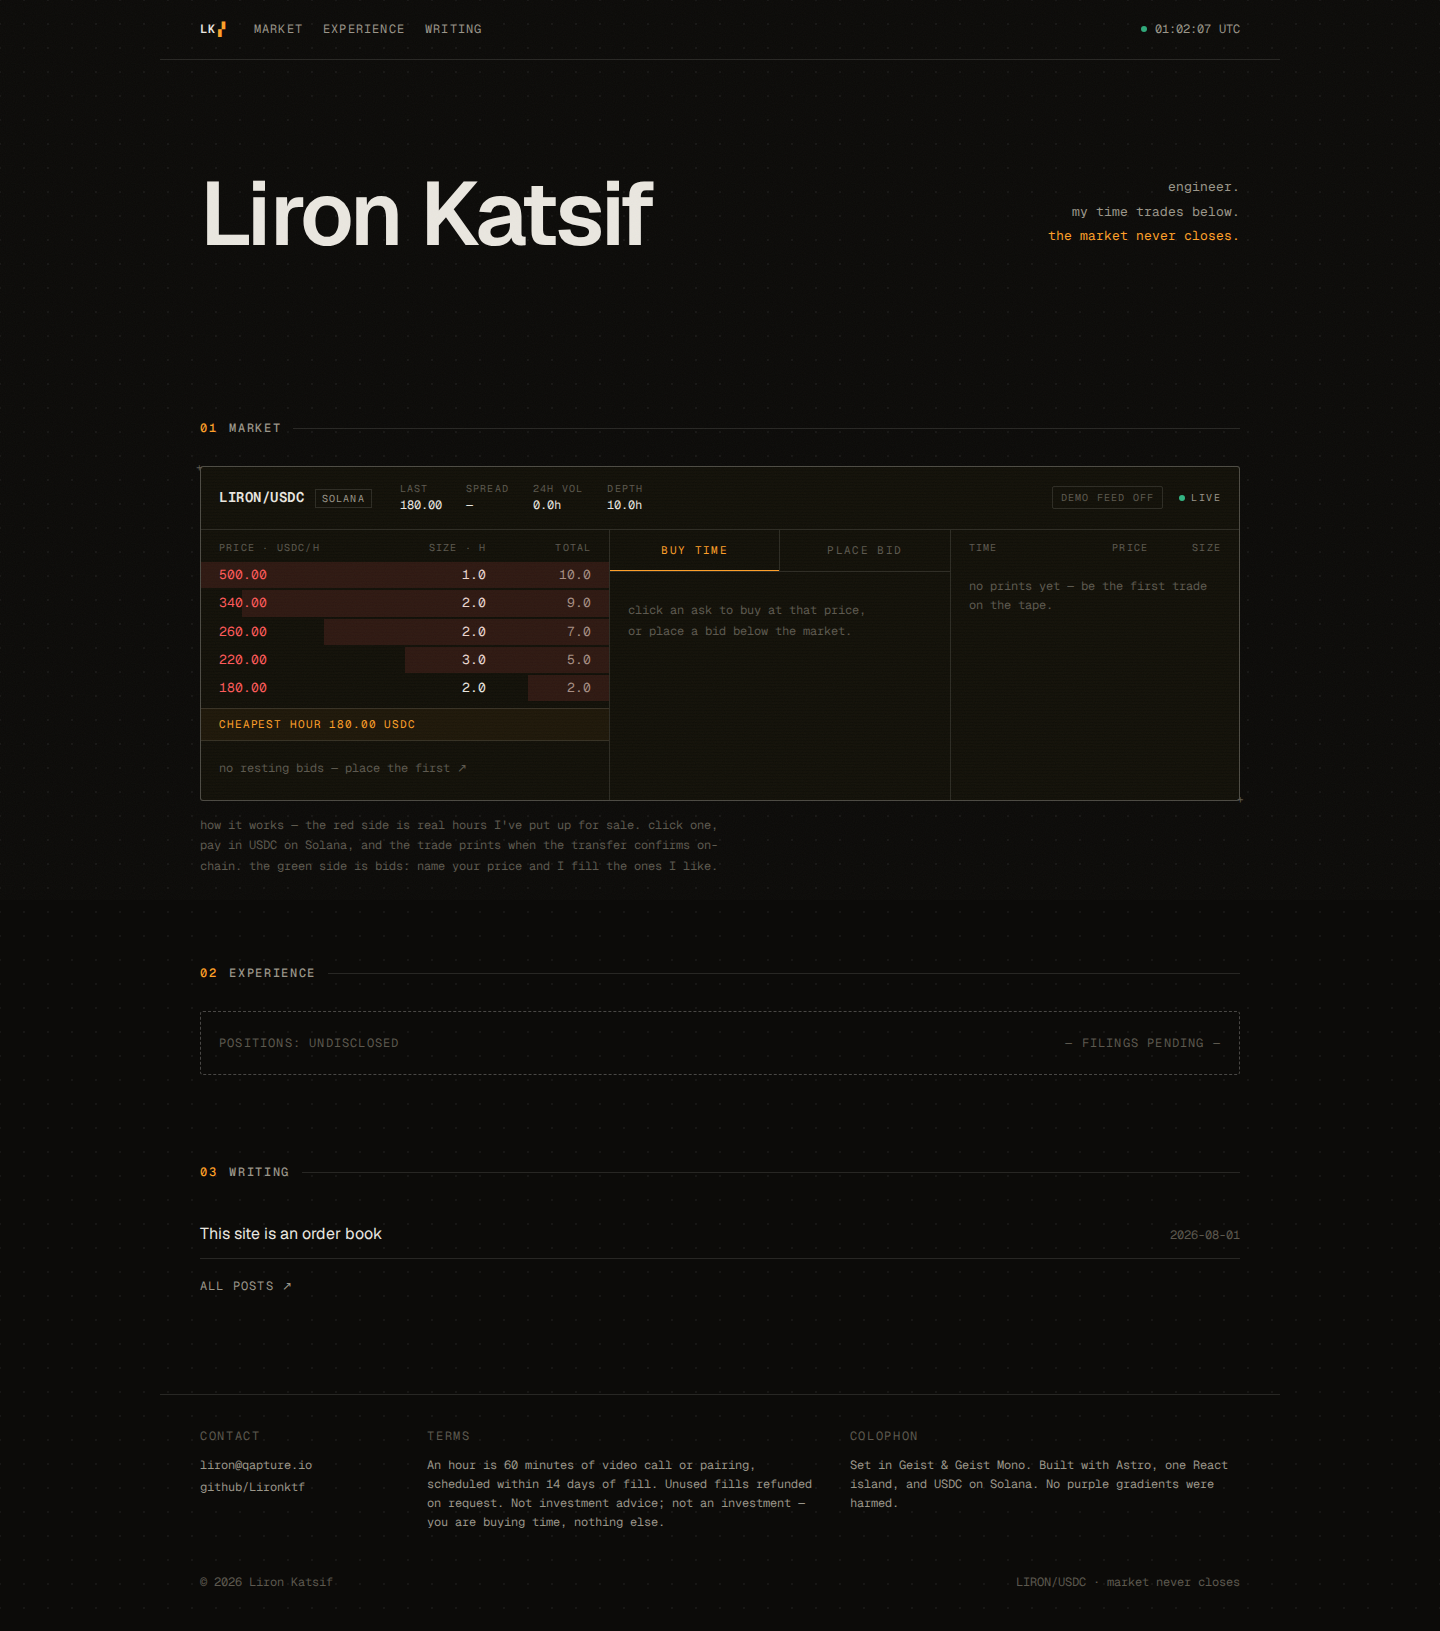
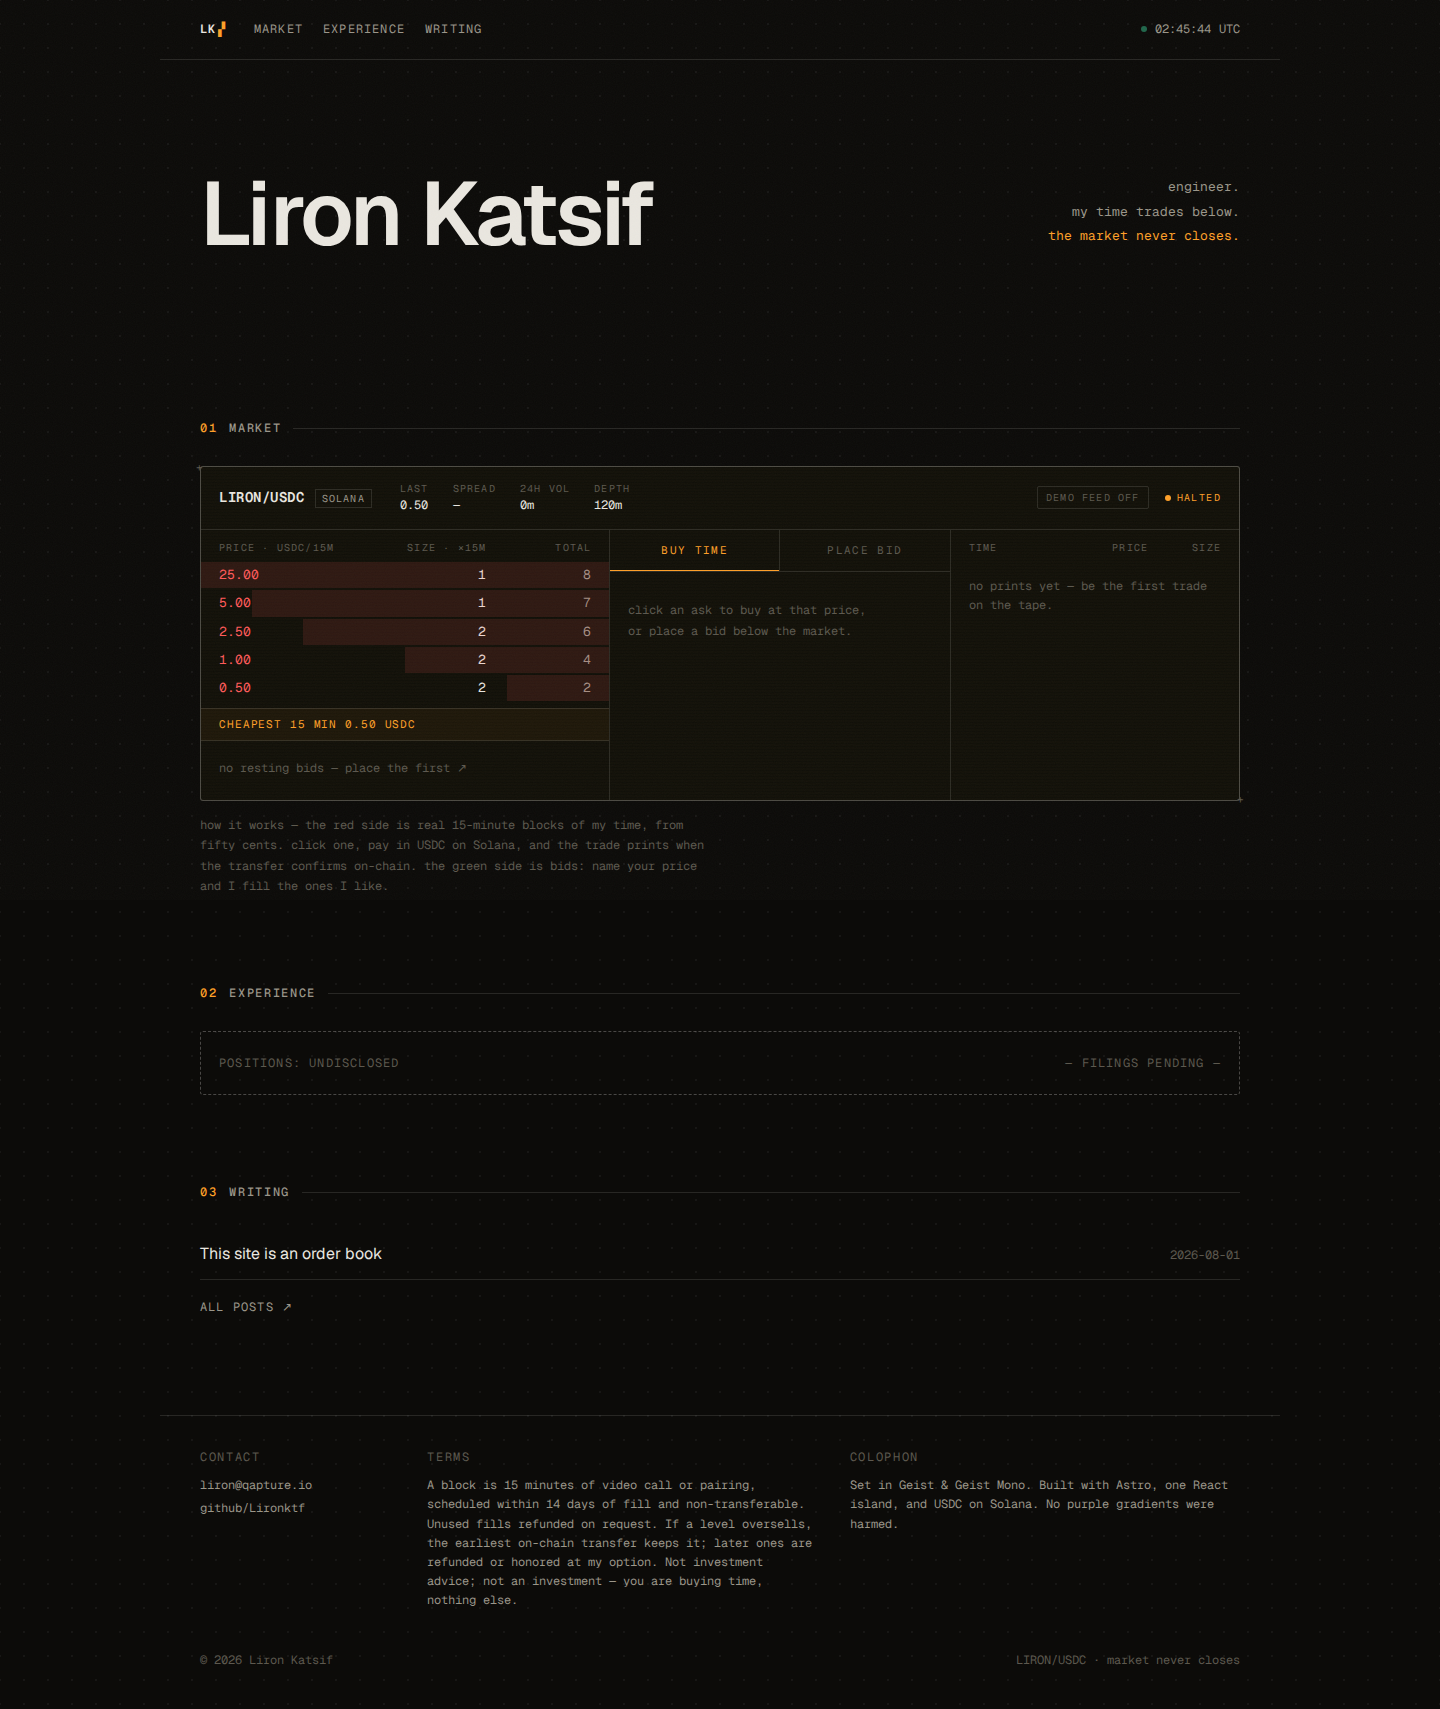
Micro-pricing: unit is now a 15-minute block, book starts at 0.50 USDC
Steep ladder (0.50/1/2.50/5/25) with tiny float — sweeping the whole
book costs ~$37 for 2h, so cheap can't be exploited. Oversell policy
added to terms. Demo feed rescaled to cents.

diff --git a/src/islands/orderbook/OrderBook.tsx b/src/islands/orderbook/OrderBook.tsx
@@ -8,7 +8,9 @@ const BIDS_KEY = 'lk.bids';
 const TRADES_KEY = 'lk.trades';
 
 const px = (n: number) => n.toFixed(2);
-const hrs = (n: number) => n.toFixed(1);
+// sizes are 15-minute blocks
+const blk = (n: number) => String(Math.round(n));
+const mins = (n: number) => `${Math.round(n * 15)}m`;
 const hhmmss = (ts: number) => new Date(ts).toISOString().slice(11, 19);
 const uid = () => Math.random().toString(36).slice(2, 9);
 
@@ -69,10 +71,10 @@ function Row(props: {
       <i className="depth" style={{ width: `${depth}%` }} />
       <span className="p">{px(props.price)}</span>
       <span className="s">
-        {hrs(props.size)}
+        {blk(props.size)}
         {props.demo && <em className="demo-tag">demo</em>}
       </span>
-      <span className="c">{hrs(props.cum)}</span>
+      <span className="c">{blk(props.cum)}</span>
     </button>
   );
 }
@@ -95,7 +97,7 @@ export default function OrderBook(props: { asks: Level[]; config: MarketConfig }
   const [demo, setDemo] = useState(false);
   const [ticket, setTicket] = useState<TicketMode>(null);
   const [pay, setPay] = useState<PayState>({ s: 'idle' });
-  const [bidForm, setBidForm] = useState({ price: '', size: '1.0', note: '' });
+  const [bidForm, setBidForm] = useState({ price: '', size: '1', note: '' });
 
   // hydrate persisted state after mount (island is client-rendered but be safe)
   useEffect(() => {
@@ -115,9 +117,9 @@ export default function OrderBook(props: { asks: Level[]; config: MarketConfig }
     const timer = setInterval(() => {
       const roll = Math.random();
       setBids((bs) => {
-        const best = asks.find((a) => a.size > 0)?.price ?? 200;
+        const best = asks.find((a) => a.size > 0)?.price ?? 1;
         if (roll < 0.4) {
-          const price = Math.max(20, Math.round(best - 5 - Math.random() * 60));
+          const price = Math.max(0.05, +(best * (0.4 + Math.random() * 0.5)).toFixed(2));
           const bid: Bid = {
             id: uid(),
             price,
@@ -136,11 +138,11 @@ export default function OrderBook(props: { asks: Level[]; config: MarketConfig }
       });
       if (roll >= 0.55) {
         setTrades((ts) => {
-          const best = asks.find((a) => a.size > 0)?.price ?? 200;
+          const best = asks.find((a) => a.size > 0)?.price ?? 1;
           const t: Trade = {
             id: uid(),
             side: Math.random() > 0.4 ? 'buy' : 'sell',
-            price: Math.round(best + (Math.random() - 0.6) * 30),
+            price: Math.max(0.05, +(best * (0.8 + Math.random() * 0.5)).toFixed(2)),
             size: Math.ceil(Math.random() * 2),
             ts: Date.now(),
             demo: true,
@@ -226,12 +228,12 @@ export default function OrderBook(props: { asks: Level[]; config: MarketConfig }
     const bid: Bid = { id: uid(), price, size, note: bidForm.note, ts: Date.now() };
     setBids((bs) => [...bs, bid]);
     const body = encodeURIComponent(
-      `Bid on ${config.ticker}\n\nprice: ${price} USDC/h\nsize: ${size}h\nnote: ${bidForm.note || '—'}\n\n(reply to this email to negotiate / get filled)`,
+      `Bid on ${config.ticker}\n\nprice: ${price} USDC per 15m\nsize: ${size} × 15m\nnote: ${bidForm.note || '—'}\n\n(reply to this email to negotiate / get filled)`,
     );
     window.location.href = `mailto:${config.email}?subject=${encodeURIComponent(
-      `[BID] ${size}h @ ${price} USDC/h`,
+      `[BID] ${size}×15m @ ${price} USDC`,
     )}&body=${body}`;
-    setBidForm({ price: '', size: '1.0', note: '' });
+    setBidForm({ price: '', size: '1', note: '' });
     setTicket(null);
   };
 
@@ -261,11 +263,11 @@ export default function OrderBook(props: { asks: Level[]; config: MarketConfig }
           </div>
           <div>
             <dt>24h vol</dt>
-            <dd>{hrs(vol24)}h</dd>
+            <dd>{mins(vol24)}</dd>
           </div>
           <div>
             <dt>depth</dt>
-            <dd>{hrs(liveAsks.reduce((a, l) => a + l.size, 0))}h</dd>
+            <dd>{mins(liveAsks.reduce((a, l) => a + l.size, 0))}</dd>
           </div>
         </dl>
         <div className="head-right">
@@ -300,8 +302,8 @@ export default function OrderBook(props: { asks: Level[]; config: MarketConfig }
         {/* ── the book ── */}
         <section className="book" aria-label="Order book">
           <div className="cols mono">
-            <span>price · usdc/h</span>
-            <span>size · h</span>
+            <span>price · usdc/15m</span>
+            <span>size · ×15m</span>
             <span>total</span>
           </div>
 
@@ -332,7 +334,7 @@ export default function OrderBook(props: { asks: Level[]; config: MarketConfig }
                 <span>mid {px((bestAsk! + bestBid!) / 2)}</span>
               </>
             ) : (
-              <span>cheapest hour {bestAsk != null ? px(bestAsk) : '—'} usdc</span>
+              <span>cheapest 15 min {bestAsk != null ? px(bestAsk) : '—'} usdc</span>
             )}
           </div>
 
@@ -397,7 +399,7 @@ export default function OrderBook(props: { asks: Level[]; config: MarketConfig }
               <p className="note">{ticket.level.note}</p>
               <div className="line mono">
                 <span>price</span>
-                <b>{px(ticket.level.price)} usdc/h</b>
+                <b>{px(ticket.level.price)} usdc / 15m</b>
               </div>
               <div className="line mono">
                 <span>size</span>
@@ -411,7 +413,7 @@ export default function OrderBook(props: { asks: Level[]; config: MarketConfig }
                   >
                     −
                   </button>
-                  <b>{hrs(ticket.qty)}h</b>
+                  <b>{blk(ticket.qty)} × 15m</b>
                   <button
                     type="button"
                     onClick={() =>
@@ -433,7 +435,7 @@ export default function OrderBook(props: { asks: Level[]; config: MarketConfig }
 
               {pay.s === 'idle' && (
                 <button type="button" className="exec mono" onClick={startCheckout}>
-                  buy {hrs(ticket.qty)}h @ {px(ticket.level.price)}
+                  buy {blk(ticket.qty)}×15m @ {px(ticket.level.price)}
                 </button>
               )}
               {pay.s === 'checkout' && (
@@ -442,8 +444,8 @@ export default function OrderBook(props: { asks: Level[]; config: MarketConfig }
                 >
                   <WalletPay
                     amount={ticket.level.price * ticket.qty}
-                    label={`${config.ticker} — ${hrs(ticket.qty)}h`}
-                    message={`${hrs(ticket.qty)}h of Liron's time @ ${px(ticket.level.price)} USDC/h`}
+                    label={`${config.ticker} — ${blk(ticket.qty)}×15m`}
+                    message={`${mins(ticket.qty)} of Liron's time @ ${px(ticket.level.price)} USDC per 15m`}
                     config={config}
                     onConfirmed={handleFill}
                   />
@@ -473,7 +475,7 @@ export default function OrderBook(props: { asks: Level[]; config: MarketConfig }
                     being accepted.{' '}
                     <a
                       href={`mailto:${config.email}?subject=${encodeURIComponent(
-                        `[HALTED] interested in ${hrs(ticket.qty)}h @ ${px(ticket.level.price)} USDC/h`,
+                        `[HALTED] interested in ${blk(ticket.qty)}×15m @ ${px(ticket.level.price)} USDC per 15m`,
                       )}`}
                     >
                       email me and I'll ping you at the opening bell ↗
@@ -488,7 +490,7 @@ export default function OrderBook(props: { asks: Level[]; config: MarketConfig }
                     the wallet isn't wired up yet —{' '}
                     <a
                       href={`mailto:${config.email}?subject=${encodeURIComponent(
-                        `[BUY] ${hrs(ticket.qty)}h @ ${px(ticket.level.price)} USDC/h`,
+                        `[BUY] ${blk(ticket.qty)}×15m @ ${px(ticket.level.price)} USDC per 15m`,
                       )}`}
                     >
                       email me and consider it filled ↗
@@ -509,16 +511,16 @@ export default function OrderBook(props: { asks: Level[]; config: MarketConfig }
                 emails me, and I fill the ones I like.
               </p>
               <label className="line mono">
-                <span>price · usdc/h</span>
+                <span>price · usdc/15m</span>
                 <input
                   inputMode="decimal"
-                  placeholder={bestAsk ? String(Math.round(bestAsk * 0.7)) : '120'}
+                  placeholder={bestAsk ? (bestAsk * 0.6).toFixed(2) : '0.25'}
                   value={bidForm.price}
                   onChange={(e) => setBidForm({ ...bidForm, price: e.target.value })}
                 />
               </label>
               <label className="line mono">
-                <span>size · hours</span>
+                <span>size · ×15m</span>
                 <input
                   inputMode="decimal"
                   value={bidForm.size}
@@ -559,7 +561,7 @@ export default function OrderBook(props: { asks: Level[]; config: MarketConfig }
                   <span>{hhmmss(t.ts)}</span>
                   <span>{px(t.price)}</span>
                   <span>
-                    {hrs(t.size)}h{t.demo && <em className="demo-tag">demo</em>}
+                    {mins(t.size)}{t.demo && <em className="demo-tag">demo</em>}
                   </span>
                 </li>
               ))}
